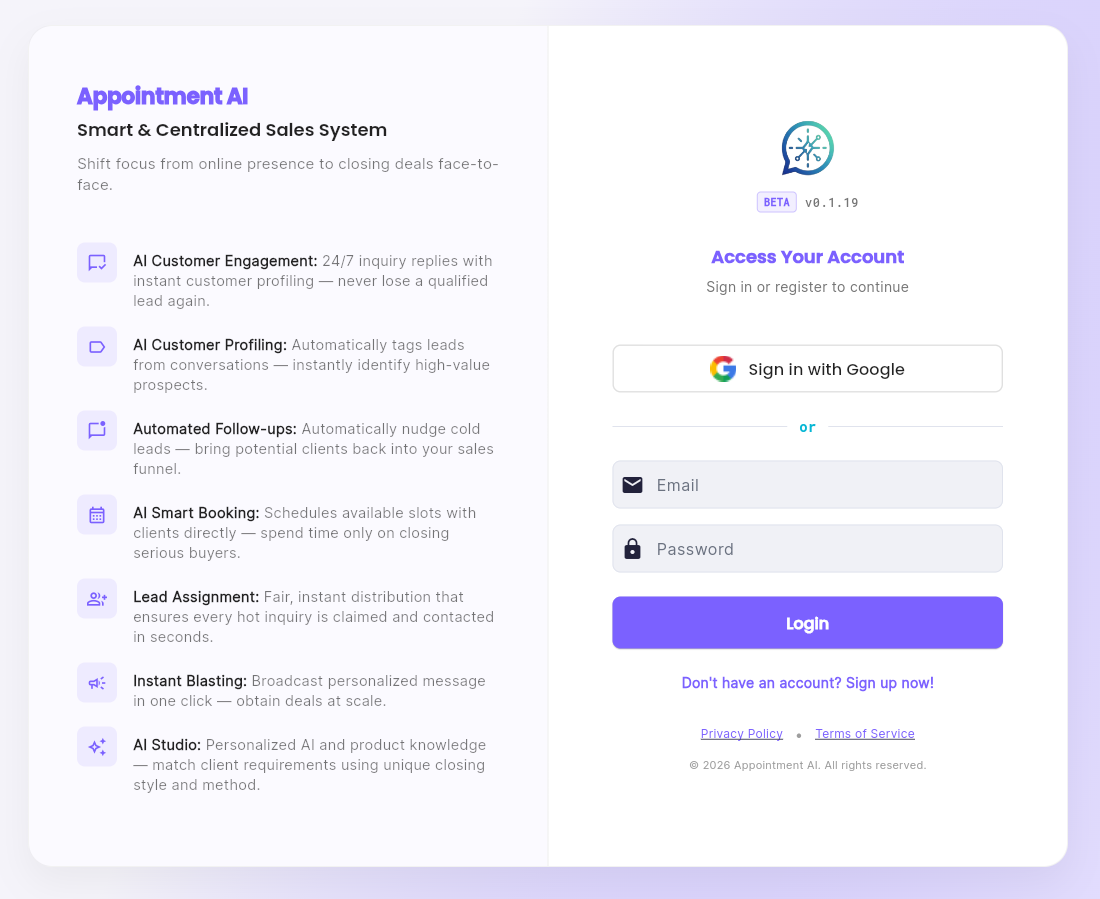
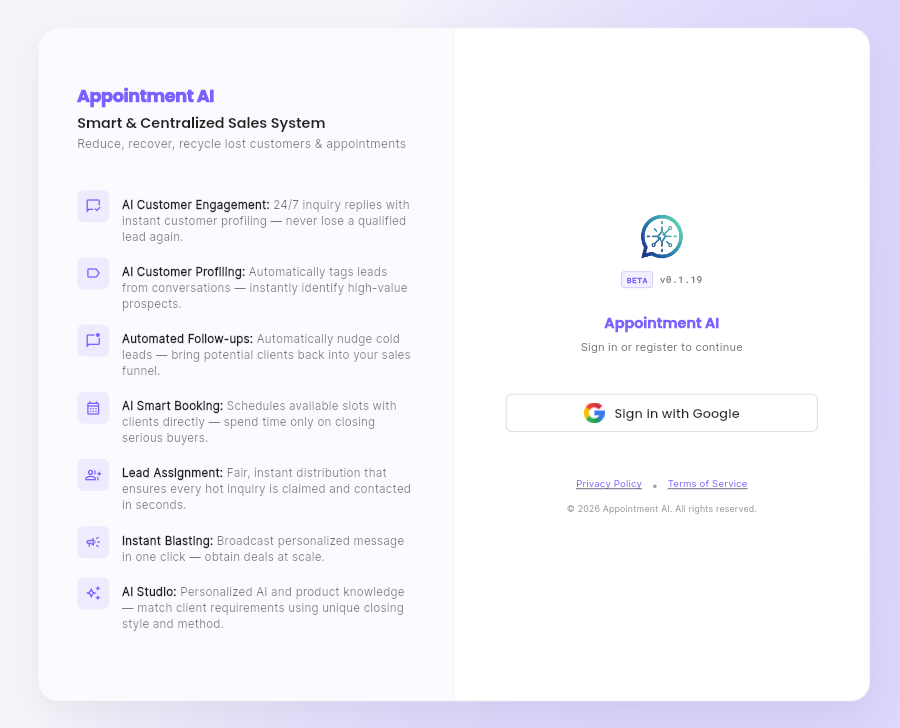
Add tagline

diff --git a/README.md b/README.md
@@ -1,5 +1,7 @@
 # Appointment AI
 
+♻ Reduce, recover, and recycle LOST customers and appointments 📲💰
+
 Link: [click me](https://appointment-ai.alvinchiew.com/)
 
 ## Overview
@@ -42,15 +44,15 @@ Currently handles WhatsApp inquiries, customer follow up, appointment scheduling
 1. **AI Studio**
    - Auto reply and product mapping based on ads message
    - AI personalization train ground based on product-specialized sales techniques
-   - AI Customer Profile Tag customization 
+   - AI Customer Profile Tag customization
 1. **Auto WhatsApp Blasting**
    - Anti-ban WhatsApp blasting configuration integration
-   - Customer lead follow up customization 
+   - Customer lead follow up customization
    - Customer appointment reminder & confirmation
    - Import leads from one product to another
 1. **[FUTURE] Leads Analytics - Operation Dashboard**
    - One stop business intelligence for data driven decision making
-1. **[IN-PROGRESS] AI Marketing**  
+1. **[IN-PROGRESS] AI Marketing**
    - AI trending headline research based on product
    - AI content creation (ads article, image, video)
    - AI landing page generation
